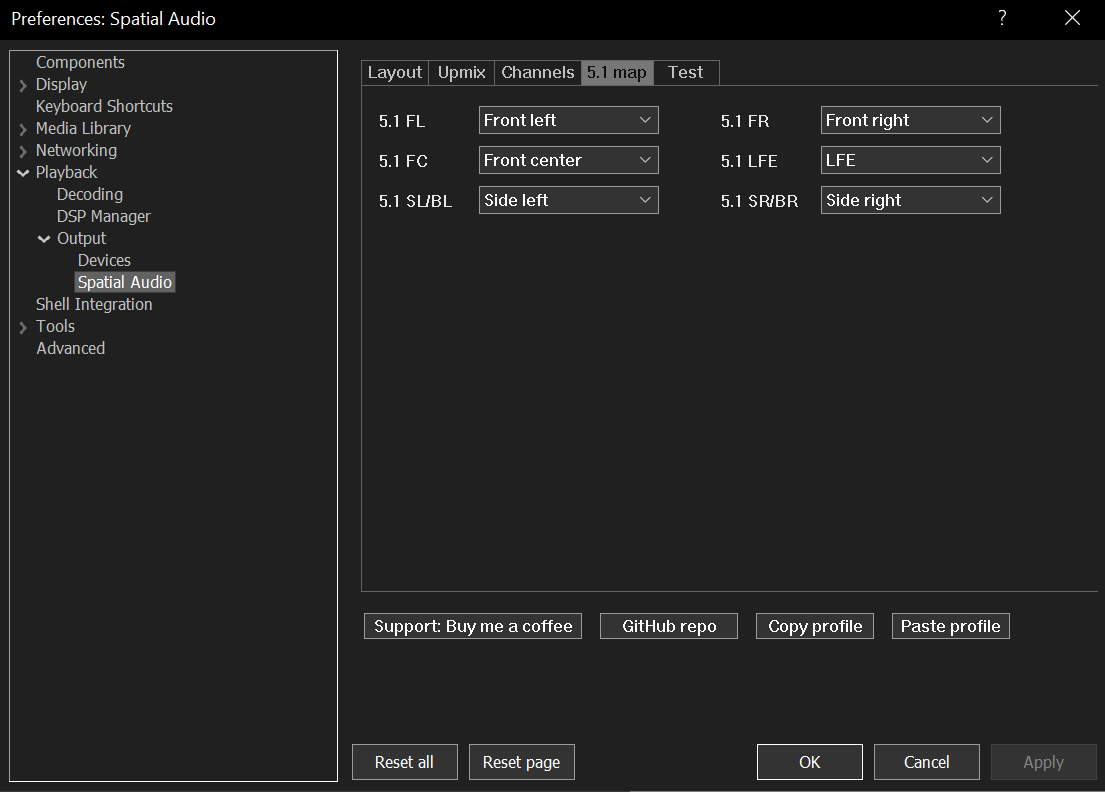
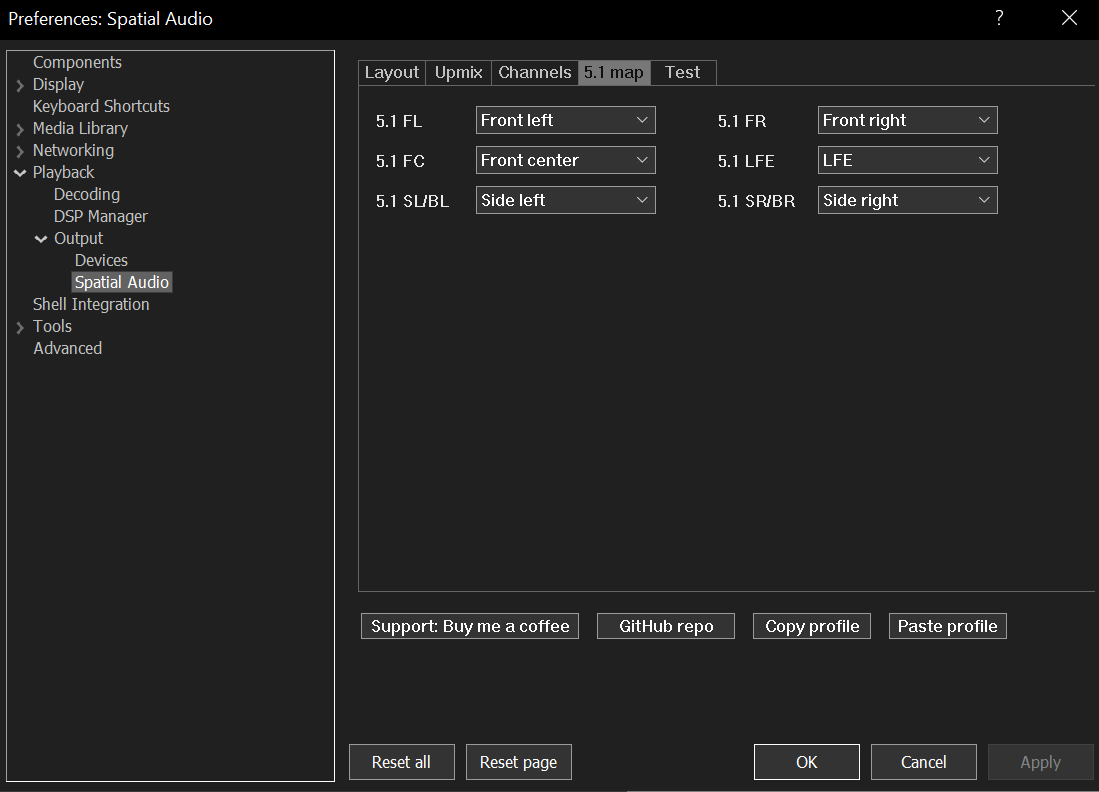
Crop screenshots and tidy README

diff --git a/README.md b/README.md
@@ -36,7 +36,7 @@ Select the listening mode and tune how stereo is spread into center, surround, r
 
 ### Per-channel trims
 
-Adjust each 7.1.4 bed channel independently with gain, delay, and polarity inversion. This is useful when matching a receiver, speaker distance compensation, or a room correction profile.
+Adjust bed channels independently with gain, delay, and polarity inversion. This is useful when matching a receiver, speaker distance compensation, or a room correction profile.
 
 ![Per-channel trims](docs/screenshots/channel-trims.png)
 
@@ -61,22 +61,13 @@ Play short tones from front, side, rear, height, and LFE directions. Positional 
 - Spatial sound enabled for that endpoint in Windows sound settings.
 - foobar2000 2.x 64-bit for the component package.
 
-The component settings live under Preferences > Playback > Output > Spatial Audio.
+## How it works
 
-Stereo input is upmixed to the available Spatial Audio bed. 5.1 input can be mapped per source channel from the component settings: FL, FR, FC, LFE, SL/BL, and SR/BR can each target front, side, rear, height, LFE, or Disabled. 7.1 input is preserved to matching front, side, rear, center, and LFE bed channels.
+Stereo input is upmixed into the selected Windows Spatial Audio bed. 5.1 input can be mapped per source channel, and 7.1 input is preserved to matching front, side, rear, center, and LFE bed channels.
 
-The preferences page now exposes:
+Supported output beds are Auto, Stereo, 5.1, 7.1, 5.1.2, 5.1.4, and 7.1.4. New installs start with beginner-safe defaults: Auto bed, 48 kHz compatible render rate, Reference upmix, limiter on, and conservative gains.
 
-- Layout selection: Auto, Stereo, 5.1, 7.1, 5.1.2, 5.1.4, and 7.1.4, with endpoint probe output.
-- Render quality controls: 48 kHz compatible default, source sample rate if supported, auto highest supported, or fixed 44.1/88.2/96/176.4/192 kHz.
-- Beginner-safe defaults: Auto bed, 48 kHz compatible render rate, Reference upmix, limiter on, and conservative gains.
-- Upmix mode controls: Reference, Full spatial, and Front only for quick A/B comparison.
-- Upmix sliders next to numeric values for master/headroom, center, surround, rear, height, width, height ambience, decorrelation, and LFE.
-- Per-channel gain, delay, and polarity invert controls for the 7.1.4 bed.
-- Copy/Paste profile buttons for sharing the full component settings through the clipboard.
-- Tooltips on important controls for setup guidance without cluttering the settings page.
-- A directional test pad that can play a short Spatial Audio tone from front, side, rear, ceiling, or LFE directions. If the endpoint supports dynamic objects, the test can use object coordinates for positional channels; LFE always uses the static low-frequency bed channel with a low test tone.
-- Transparent soft limiter or hard ceiling limiter control to reduce accidental clipping.
+Use the settings tabs above for endpoint probing, upmix tuning, per-channel trims, 5.1 source mapping, and directional tests. Copy/Paste profile buttons can share the full component setup through the clipboard.
 
 ## Quality
 
@@ -113,11 +104,11 @@ The foobar2000 component is built by the GitHub Actions workflow using the offic
 
 `--probe` prints endpoint capabilities.
 
-`--static-test` plays sequential tone bursts through the configured static bed. With a 7.1.4 Spatial Audio endpoint, the important checks are `top_front_left`, `top_front_right`, `top_back_left`, and `top_back_right`.
+`--static-test` plays sequential tone bursts through the configured static bed. With height-enabled layouts such as 5.1.4 or 7.1.4, the important checks are `top_front_left`, `top_front_right`, `top_back_left`, and `top_back_right`.
 
 `--custom` creates dynamic spatial objects from `config/spatial_audio_profile.ini` and positions them with Windows Spatial Audio coordinates.
 
-`StereoSpatialPlayer.exe --mode bed` plays a stereo WAV through the configured static 7.1.4 bed. `--mode objects` plays the same WAV as dynamic spatial objects using `source`, `gain_db`, `x`, `y`, and `z` from the custom object sections.
+`StereoSpatialPlayer.exe --mode bed` plays a stereo WAV through the configured static bed. `--mode objects` plays the same WAV as dynamic spatial objects using `source`, `gain_db`, `x`, `y`, and `z` from the custom object sections.
 
 Release ZIPs include the standalone executables and `config/spatial_audio_profile.ini` in the same default layout the executables expect. The component is published separately as `foo_out_spatial_audio.fb2k-component`.
 
